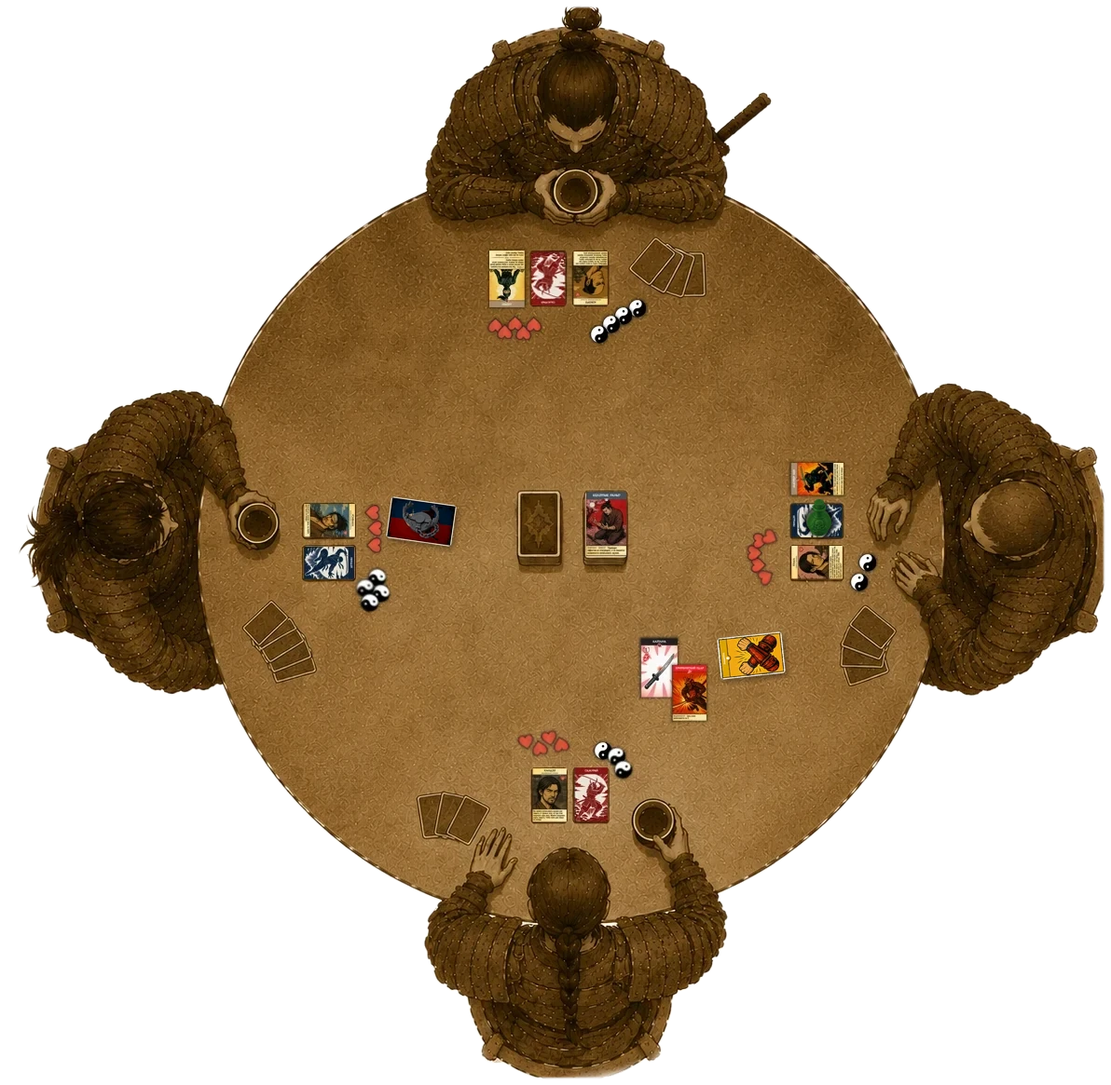
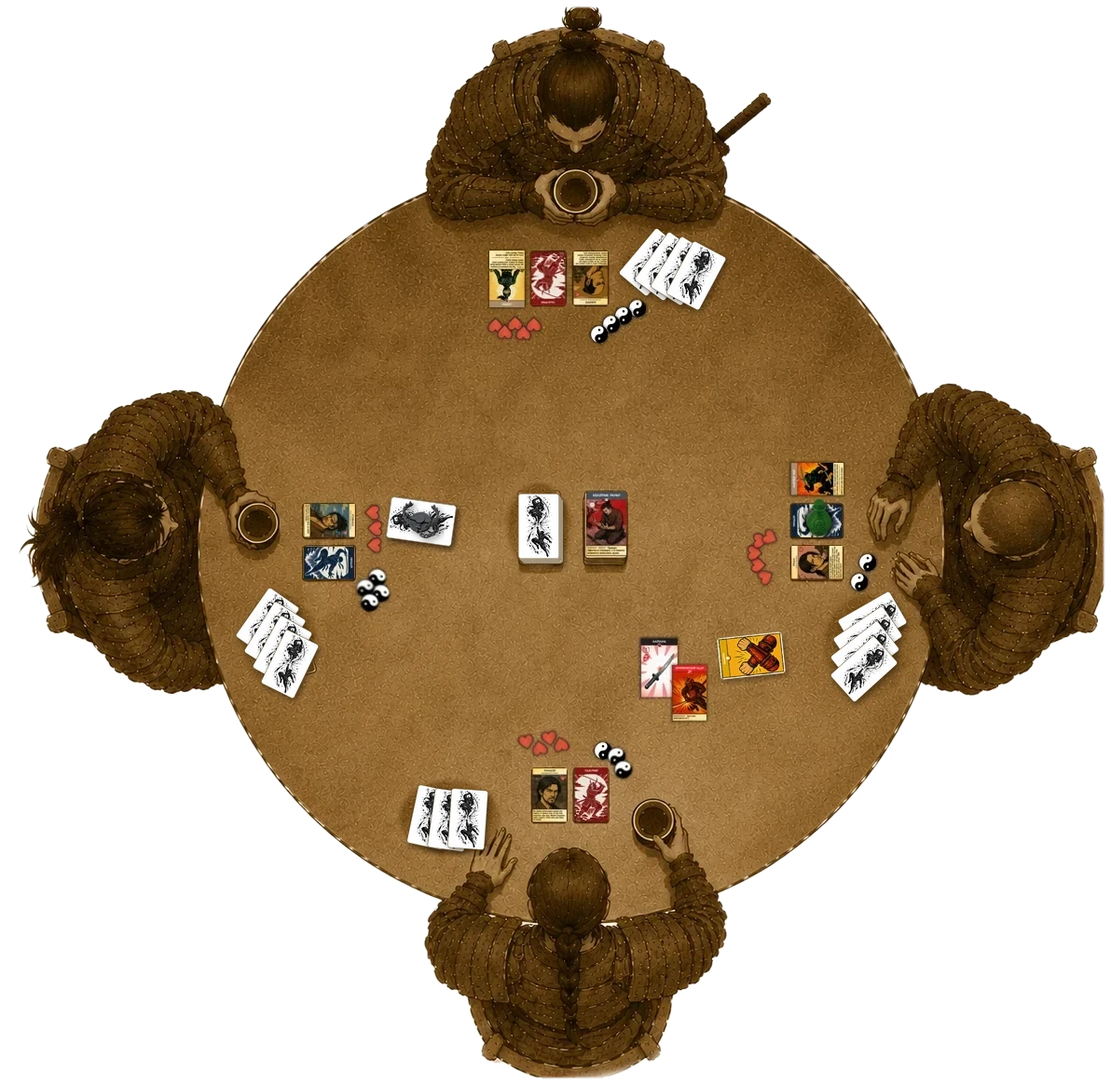
Стол: новая рубашка на колоде, веерах рук и ловушке; стрелка атаки снаружи стола
Все перевёрнутые карты на столе — белая рубашка с тушью (media/cards/back.webp): старые нарисованные веера и колода закрашены клоном текстуры, поверх — новые слои (tools/compose-table-backs.py; предыдущий монтаж бутылки, капкана и защиты — tools/compose-table-figs.py). Прежняя картинка — media/obsolete/table-v2-brown-backs.webp. Стрелка «нижний самурай атакует правого ниндзя» ушла с центра стола наружу: справа, огибая тело самурая, с плашкой «Атакует».

diff --git a/rules/rules.html b/rules/rules.html
@@ -90,7 +90,7 @@
           <h2 class="chapter-title">Стол<span class="kanji" aria-hidden="true">卓</span></h2>
 <p>Так выглядит стол в середине партии на четверых: у каждого игрока перед собой своя зона, посреди стола — общие стопки. Игроки сидят через одного, поэтому напротив — союзник, а по бокам — противники.</p>
 <figure class="table-figure">
-        <div class="table-pic"><img src="media/table.webp" alt="" width="1192" height="1165"><svg class="table-overlay" viewBox="0 0 1192 1165" xmlns="http://www.w3.org/2000/svg" aria-hidden="true"><defs><marker id="tf-arrow" viewBox="0 0 10 10" refX="9" refY="5" markerWidth="5" markerHeight="5" orient="auto-start-reverse"><path d="M0,0 L10,5 L0,10 z"/></marker><marker id="tf-arrow-big" viewBox="0 0 10 10" refX="8" refY="5" markerWidth="4" markerHeight="4" orient="auto-start-reverse"><path d="M0,0 L10,5 L0,10 z"/></marker></defs><path class="tf-flow" d="M 630 795 C 700 640 780 610 868 640"/><g class="tf-lines"><line x1="480" y1="300" x2="515" y2="300"/><line x1="598" y1="402" x2="593" y2="335"/><line x1="818" y1="357" x2="760" y2="315"/><line x1="359" y1="473" x2="430" y2="540"/><line x1="442" y1="468" x2="365" y2="532"/><line x1="521" y1="523" x2="560" y2="565"/><line x1="692" y1="513" x2="672" y2="530"/><line x1="815" y1="463" x2="855" y2="500"/><line x1="827" y1="545" x2="862" y2="552"/><line x1="813" y1="739" x2="812" y2="732"/><line x1="636" y1="715" x2="688" y2="712"/><line x1="476" y1="793" x2="565" y2="800"/><line x1="704" y1="812" x2="683" y2="812"/></g><g class="tf-labels"><g transform="translate(376,277)"><rect width="104" height="46" rx="8"/><text class="tf-txt" x="52.0" y="24.0">Стойка</text></g><g transform="translate(523,402)"><rect width="154" height="46" rx="8"/><text class="tf-txt" x="77.0" y="24.0">Карта роли</text></g><g transform="translate(810,357)"><rect width="79" height="46" rx="8"/><text class="tf-txt" x="39.5" y="24.0">Рука</text></g><g transform="translate(277,427)"><rect width="116" height="46" rx="8"/><text class="tf-txt" x="58.0" y="24.0">Ловушка</text></g><g transform="translate(406,422)"><rect width="129" height="46" rx="8"/><text class="tf-txt" x="64.5" y="24.0">Персонаж</text></g><g transform="translate(448,477)"><rect width="104" height="46" rx="8"/><text class="tf-txt" x="52.0" y="24.0">Колода</text></g><g transform="translate(674,467)"><rect width="92" height="46" rx="8"/><text class="tf-txt" x="46.0" y="24.0">Сброс</text></g><g transform="translate(732,417)"><rect width="116" height="46" rx="8"/><text class="tf-txt" x="58.0" y="24.0">Эффекты</text></g><g transform="translate(773,517)"><rect width="54" height="46" rx="8"/><text class="tf-txt" x="27.0" y="24.0">Яд</text></g><g transform="translate(763,739)"><rect width="104" height="46" rx="8"/><text class="tf-txt" x="52.0" y="24.0">Защита</text></g><g transform="translate(444,682)"><rect width="191" height="76" rx="8"/><text class="tf-txt" x="95.5" y="24.0">Атака: оружие</text><text class="tf-txt" x="95.5" y="54.0">+ модификатор</text></g><g transform="translate(384,767)"><rect width="92" height="46" rx="8"/><text class="tf-txt" x="46.0" y="24.0">Жизни</text></g><g transform="translate(704,789)"><rect width="191" height="46" rx="8"/><text class="tf-txt" x="95.5" y="24.0">Победные очки</text></g></g><g class="tf-tags"><g transform="translate(802,127)"><rect width="116" height="46" rx="23"/><text x="58.0" y="24.0">Самурай</text></g><g transform="translate(1028,372)"><rect width="104" height="46" rx="23"/><text x="52.0" y="24.0">Ниндзя</text></g><g transform="translate(702,1037)"><rect width="116" height="46" rx="23"/><text x="58.0" y="24.0">Самурай</text></g><g transform="translate(88,377)"><rect width="104" height="46" rx="23"/><text x="52.0" y="24.0">Ниндзя</text></g></g></svg></div>
+        <div class="table-pic"><img src="media/table.webp" alt="" width="1192" height="1165"><svg class="table-overlay" viewBox="0 0 1192 1165" xmlns="http://www.w3.org/2000/svg" aria-hidden="true"><defs><marker id="tf-arrow" viewBox="0 0 10 10" refX="9" refY="5" markerWidth="5" markerHeight="5" orient="auto-start-reverse"><path d="M0,0 L10,5 L0,10 z"/></marker><marker id="tf-arrow-big" viewBox="0 0 10 10" refX="8" refY="5" markerWidth="4" markerHeight="4" orient="auto-start-reverse"><path d="M0,0 L10,5 L0,10 z"/></marker></defs><path class="tf-flow" d="M 790 1125 C 930 1100 1020 950 1005 775"/><g class="tf-lines"><line x1="480" y1="300" x2="515" y2="300"/><line x1="598" y1="402" x2="593" y2="335"/><line x1="818" y1="357" x2="760" y2="315"/><line x1="359" y1="473" x2="430" y2="540"/><line x1="442" y1="468" x2="365" y2="532"/><line x1="521" y1="523" x2="560" y2="565"/><line x1="692" y1="513" x2="672" y2="530"/><line x1="815" y1="463" x2="855" y2="500"/><line x1="827" y1="545" x2="862" y2="552"/><line x1="813" y1="739" x2="812" y2="732"/><line x1="636" y1="715" x2="688" y2="712"/><line x1="476" y1="793" x2="565" y2="800"/><line x1="704" y1="812" x2="683" y2="812"/></g><g class="tf-labels"><g transform="translate(376,277)"><rect width="104" height="46" rx="8"/><text class="tf-txt" x="52.0" y="24.0">Стойка</text></g><g transform="translate(523,402)"><rect width="154" height="46" rx="8"/><text class="tf-txt" x="77.0" y="24.0">Карта роли</text></g><g transform="translate(810,357)"><rect width="79" height="46" rx="8"/><text class="tf-txt" x="39.5" y="24.0">Рука</text></g><g transform="translate(277,427)"><rect width="116" height="46" rx="8"/><text class="tf-txt" x="58.0" y="24.0">Ловушка</text></g><g transform="translate(406,422)"><rect width="129" height="46" rx="8"/><text class="tf-txt" x="64.5" y="24.0">Персонаж</text></g><g transform="translate(448,477)"><rect width="104" height="46" rx="8"/><text class="tf-txt" x="52.0" y="24.0">Колода</text></g><g transform="translate(674,467)"><rect width="92" height="46" rx="8"/><text class="tf-txt" x="46.0" y="24.0">Сброс</text></g><g transform="translate(732,417)"><rect width="116" height="46" rx="8"/><text class="tf-txt" x="58.0" y="24.0">Эффекты</text></g><g transform="translate(773,517)"><rect width="54" height="46" rx="8"/><text class="tf-txt" x="27.0" y="24.0">Яд</text></g><g transform="translate(763,739)"><rect width="104" height="46" rx="8"/><text class="tf-txt" x="52.0" y="24.0">Защита</text></g><g transform="translate(444,682)"><rect width="191" height="76" rx="8"/><text class="tf-txt" x="95.5" y="24.0">Атака: оружие</text><text class="tf-txt" x="95.5" y="54.0">+ модификатор</text></g><g transform="translate(384,767)"><rect width="92" height="46" rx="8"/><text class="tf-txt" x="46.0" y="24.0">Жизни</text></g><g transform="translate(704,789)"><rect width="191" height="46" rx="8"/><text class="tf-txt" x="95.5" y="24.0">Победные очки</text></g><g transform="translate(1027,937)"><rect width="116" height="46" rx="8"/><text class="tf-txt" x="58.0" y="24.0">Атакует</text></g></g><g class="tf-tags"><g transform="translate(802,127)"><rect width="116" height="46" rx="23"/><text x="58.0" y="24.0">Самурай</text></g><g transform="translate(1028,372)"><rect width="104" height="46" rx="23"/><text x="52.0" y="24.0">Ниндзя</text></g><g transform="translate(702,1037)"><rect width="116" height="46" rx="23"/><text x="58.0" y="24.0">Самурай</text></g><g transform="translate(88,377)"><rect width="104" height="46" rx="23"/><text x="52.0" y="24.0">Ниндзя</text></g></g></svg></div>
         <figcaption>Стол на четверых: самурай — ниндзя — самурай — ниндзя.</figcaption>
       </figure>
 <p class="table-note">Ловушка кладётся перед собой рубашкой вверх, сверху — фигурка капкана; яд отмечают фигуркой-бутылкой на карте роли. Аура кладётся перед собой в открытую, сверху — фигурка знамени; на этой картинке её нет.</p>

diff --git a/rules/rules-en.html b/rules/rules-en.html
@@ -90,7 +90,7 @@
           <h2 class="chapter-title">The Table<span class="kanji" aria-hidden="true">卓</span></h2>
 <p>This is what a four-player table looks like mid-game: every player has their own area in front of them, and the shared piles sit in the middle. Seats alternate, so the player opposite is your ally and the players on either side are enemies.</p>
 <figure class="table-figure">
-        <div class="table-pic"><img src="media/table.webp" alt="" width="1192" height="1165"><svg class="table-overlay" viewBox="0 0 1192 1165" xmlns="http://www.w3.org/2000/svg" aria-hidden="true"><defs><marker id="tf-arrow" viewBox="0 0 10 10" refX="9" refY="5" markerWidth="5" markerHeight="5" orient="auto-start-reverse"><path d="M0,0 L10,5 L0,10 z"/></marker><marker id="tf-arrow-big" viewBox="0 0 10 10" refX="8" refY="5" markerWidth="4" markerHeight="4" orient="auto-start-reverse"><path d="M0,0 L10,5 L0,10 z"/></marker></defs><path class="tf-flow" d="M 630 795 C 700 640 780 610 868 640"/><g class="tf-lines"><line x1="480" y1="300" x2="515" y2="300"/><line x1="598" y1="402" x2="593" y2="335"/><line x1="818" y1="357" x2="760" y2="315"/><line x1="359" y1="473" x2="430" y2="540"/><line x1="442" y1="468" x2="365" y2="532"/><line x1="521" y1="523" x2="560" y2="565"/><line x1="692" y1="513" x2="672" y2="530"/><line x1="815" y1="463" x2="855" y2="500"/><line x1="852" y1="550" x2="862" y2="552"/><line x1="813" y1="739" x2="812" y2="732"/><line x1="642" y1="715" x2="688" y2="712"/><line x1="470" y1="793" x2="565" y2="800"/><line x1="698" y1="812" x2="683" y2="812"/></g><g class="tf-labels"><g transform="translate(376,277)"><rect width="104" height="46" rx="8"/><text class="tf-txt" x="52.0" y="24.0">Stance</text></g><g transform="translate(530,402)"><rect width="141" height="46" rx="8"/><text class="tf-txt" x="70.5" y="24.0">Role card</text></g><g transform="translate(810,357)"><rect width="79" height="46" rx="8"/><text class="tf-txt" x="39.5" y="24.0">Hand</text></g><g transform="translate(296,427)"><rect width="79" height="46" rx="8"/><text class="tf-txt" x="39.5" y="24.0">Trap</text></g><g transform="translate(400,422)"><rect width="141" height="46" rx="8"/><text class="tf-txt" x="70.5" y="24.0">Character</text></g><g transform="translate(460,477)"><rect width="79" height="46" rx="8"/><text class="tf-txt" x="39.5" y="24.0">Deck</text></g><g transform="translate(662,467)"><rect width="116" height="46" rx="8"/><text class="tf-txt" x="58.0" y="24.0">Discard</text></g><g transform="translate(732,417)"><rect width="116" height="46" rx="8"/><text class="tf-txt" x="58.0" y="24.0">Effects</text></g><g transform="translate(748,517)"><rect width="104" height="46" rx="8"/><text class="tf-txt" x="52.0" y="24.0">Poison</text></g><g transform="translate(757,739)"><rect width="116" height="46" rx="8"/><text class="tf-txt" x="58.0" y="24.0">Defense</text></g><g transform="translate(438,682)"><rect width="203" height="76" rx="8"/><text class="tf-txt" x="101.5" y="24.0">Attack: weapon</text><text class="tf-txt" x="101.5" y="54.0">+ modifier</text></g><g transform="translate(390,767)"><rect width="79" height="46" rx="8"/><text class="tf-txt" x="39.5" y="24.0">Life</text></g><g transform="translate(698,789)"><rect width="203" height="46" rx="8"/><text class="tf-txt" x="101.5" y="24.0">Victory points</text></g></g><g class="tf-tags"><g transform="translate(802,127)"><rect width="116" height="46" rx="23"/><text x="58.0" y="24.0">Samurai</text></g><g transform="translate(1034,372)"><rect width="92" height="46" rx="23"/><text x="46.0" y="24.0">Ninja</text></g><g transform="translate(702,1037)"><rect width="116" height="46" rx="23"/><text x="58.0" y="24.0">Samurai</text></g><g transform="translate(94,377)"><rect width="92" height="46" rx="23"/><text x="46.0" y="24.0">Ninja</text></g></g></svg></div>
+        <div class="table-pic"><img src="media/table.webp" alt="" width="1192" height="1165"><svg class="table-overlay" viewBox="0 0 1192 1165" xmlns="http://www.w3.org/2000/svg" aria-hidden="true"><defs><marker id="tf-arrow" viewBox="0 0 10 10" refX="9" refY="5" markerWidth="5" markerHeight="5" orient="auto-start-reverse"><path d="M0,0 L10,5 L0,10 z"/></marker><marker id="tf-arrow-big" viewBox="0 0 10 10" refX="8" refY="5" markerWidth="4" markerHeight="4" orient="auto-start-reverse"><path d="M0,0 L10,5 L0,10 z"/></marker></defs><path class="tf-flow" d="M 790 1125 C 930 1100 1020 950 1005 775"/><g class="tf-lines"><line x1="480" y1="300" x2="515" y2="300"/><line x1="598" y1="402" x2="593" y2="335"/><line x1="818" y1="357" x2="760" y2="315"/><line x1="359" y1="473" x2="430" y2="540"/><line x1="442" y1="468" x2="365" y2="532"/><line x1="521" y1="523" x2="560" y2="565"/><line x1="692" y1="513" x2="672" y2="530"/><line x1="815" y1="463" x2="855" y2="500"/><line x1="852" y1="550" x2="862" y2="552"/><line x1="813" y1="739" x2="812" y2="732"/><line x1="642" y1="715" x2="688" y2="712"/><line x1="470" y1="793" x2="565" y2="800"/><line x1="698" y1="812" x2="683" y2="812"/></g><g class="tf-labels"><g transform="translate(376,277)"><rect width="104" height="46" rx="8"/><text class="tf-txt" x="52.0" y="24.0">Stance</text></g><g transform="translate(530,402)"><rect width="141" height="46" rx="8"/><text class="tf-txt" x="70.5" y="24.0">Role card</text></g><g transform="translate(810,357)"><rect width="79" height="46" rx="8"/><text class="tf-txt" x="39.5" y="24.0">Hand</text></g><g transform="translate(296,427)"><rect width="79" height="46" rx="8"/><text class="tf-txt" x="39.5" y="24.0">Trap</text></g><g transform="translate(400,422)"><rect width="141" height="46" rx="8"/><text class="tf-txt" x="70.5" y="24.0">Character</text></g><g transform="translate(460,477)"><rect width="79" height="46" rx="8"/><text class="tf-txt" x="39.5" y="24.0">Deck</text></g><g transform="translate(662,467)"><rect width="116" height="46" rx="8"/><text class="tf-txt" x="58.0" y="24.0">Discard</text></g><g transform="translate(732,417)"><rect width="116" height="46" rx="8"/><text class="tf-txt" x="58.0" y="24.0">Effects</text></g><g transform="translate(748,517)"><rect width="104" height="46" rx="8"/><text class="tf-txt" x="52.0" y="24.0">Poison</text></g><g transform="translate(757,739)"><rect width="116" height="46" rx="8"/><text class="tf-txt" x="58.0" y="24.0">Defense</text></g><g transform="translate(438,682)"><rect width="203" height="76" rx="8"/><text class="tf-txt" x="101.5" y="24.0">Attack: weapon</text><text class="tf-txt" x="101.5" y="54.0">+ modifier</text></g><g transform="translate(390,767)"><rect width="79" height="46" rx="8"/><text class="tf-txt" x="39.5" y="24.0">Life</text></g><g transform="translate(698,789)"><rect width="203" height="46" rx="8"/><text class="tf-txt" x="101.5" y="24.0">Victory points</text></g><g transform="translate(1027,937)"><rect width="116" height="46" rx="8"/><text class="tf-txt" x="58.0" y="24.0">Attacks</text></g></g><g class="tf-tags"><g transform="translate(802,127)"><rect width="116" height="46" rx="23"/><text x="58.0" y="24.0">Samurai</text></g><g transform="translate(1034,372)"><rect width="92" height="46" rx="23"/><text x="46.0" y="24.0">Ninja</text></g><g transform="translate(702,1037)"><rect width="116" height="46" rx="23"/><text x="58.0" y="24.0">Samurai</text></g><g transform="translate(94,377)"><rect width="92" height="46" rx="23"/><text x="46.0" y="24.0">Ninja</text></g></g></svg></div>
         <figcaption>A table for four: samurai — ninja — samurai — ninja.</figcaption>
       </figure>
 <p class="table-note">A trap is placed face down in front of you with the trap figure on top; poison is marked by a bottle figure on the role card. An aura goes face up in front of you with the banner figure on top; it is not shown in this picture.</p>

diff --git a/tools/compose-table-backs.py b/tools/compose-table-backs.py
@@ -1,0 +1,94 @@
+# -*- coding: utf-8 -*-
+"""Стол: все рубашки (колода, веера рук, карта ловушки) — новая белая рубашка с тушью
+(rules/media/cards/back.webp = media/backs/default.png в 5:8). Старые нарисованные
+веера и колода закрашиваются клоном текстуры стола, поверх кладутся новые слои.
+Слои строятся в 4× и поворачиваются до уменьшения. Аргументы: <src.webp> <out.webp>"""
+import sys, os, math
+from PIL import Image, ImageDraw, ImageFilter, ImageOps
+sys.stdout.reconfigure(encoding='utf-8')
+os.chdir(r'C:\ninja_samurai\cardboard')
+src, out = sys.argv[1:3]
+im = Image.open(src).convert('RGBA')
+S = 4
+CW, CH = 40, 64            # карта в руке / колоде, px картинки
+BACK = 'rules/media/cards/back.webp'
+
+def down(l): return l.resize((max(1, round(l.width / S)), max(1, round(l.height / S))), Image.LANCZOS)
+def rot(l, deg): return l.rotate(deg, Image.BICUBIC, expand=True)
+def shadow(layer, blur=3, dx=2, dy=3, op=0.45):
+    a = layer.split()[3]
+    sh = Image.new('RGBA', (layer.width + 2*blur + abs(dx), layer.height + 2*blur + abs(dy)), (0, 0, 0, 0))
+    sh.paste(Image.new('RGBA', layer.size, (20, 10, 0, int(255*op))), (blur + max(dx, 0), blur + max(dy, 0)), a)
+    return sh.filter(ImageFilter.GaussianBlur(blur)), (blur, blur)
+def paste_center(base, layer, cx, cy, with_shadow=True):
+    if with_shadow:
+        sh, off = shadow(layer)
+        base.alpha_composite(sh, (int(round(cx - layer.width/2 - off[0])), int(round(cy - layer.height/2 - off[1]))))
+    base.alpha_composite(layer, (int(round(cx - layer.width/2)), int(round(cy - layer.height/2))))
+
+def card_face(webp, w=CW*S, h=CH*S, b=1*S, outline=(120, 100, 70, 255)):
+    art = Image.open(webp).convert('RGBA')
+    tw = round(art.height * (w - 2*b) / (h - 2*b))
+    if art.width > tw:
+        x0 = (art.width - tw) // 2; art = art.crop((x0, 0, x0 + tw, art.height))
+    art = art.resize((w - 2*b, h - 2*b), Image.LANCZOS)
+    card = Image.new('RGBA', (w, h), (0, 0, 0, 0))
+    m = Image.new('L', (w, h), 0); ImageDraw.Draw(m).rounded_rectangle((0, 0, w-1, h-1), 3*S, fill=255)
+    card.paste((246, 240, 228, 255), (0, 0, w, h), m)
+    card.alpha_composite(art, (b, b))
+    d = ImageDraw.Draw(card); d.rounded_rectangle((0, 0, w-1, h-1), 3*S, outline=outline, width=S//2)
+    return card
+
+# --- клон текстуры стола: чистый кусок без предметов, кладём с мягкой эллиптической маской ---
+PATCH = im.crop((330, 330, 470, 470))
+def clean(cx, cy, rx, ry, ang=0):
+    """Закрасить эллипс (центр, полуоси, поворот) текстурой стола."""
+    w, h = int(rx*2 + 20), int(ry*2 + 20)
+    tex = Image.new('RGBA', (w, h))
+    for y in range(0, h, PATCH.height):
+        for x in range(0, w, PATCH.width):
+            tex.paste(PATCH, (x, y))
+    m = Image.new('L', (w*S, h*S), 0)
+    ImageDraw.Draw(m).ellipse((10*S, 10*S, (10+2*rx)*S, (10+2*ry)*S), fill=255)
+    m = m.resize((w, h), Image.LANCZOS).filter(ImageFilter.GaussianBlur(2))
+    if ang:
+        tex = tex.rotate(ang, Image.BICUBIC, expand=False); m = m.rotate(ang, Image.BICUBIC, expand=False)
+    tex.putalpha(m)
+    im.alpha_composite(tex, (int(cx - w/2), int(cy - h/2)))
+
+BACKCARD = card_face(BACK)
+
+def fan(cards):
+    """cards: [(cx, cy, angle)] — снизу вверх по стопке."""
+    for cx, cy, a in cards:
+        paste_center(im, down(rot(BACKCARD, a)), cx, cy)
+
+# ---------- 1. руки: четыре веера ----------
+HANDS = {
+ 'top':    dict(clean=(716, 290, 52, 38, 0),   cards=[(699, 281, -40), (715, 286, -36), (731, 291, -32), (747, 296, -28)]),
+ 'left':   dict(clean=(300, 690, 40, 52, 0),   cards=[(287, 668, -35), (295, 683, -32), (303, 698, -29), (311, 713, -26)]),
+ 'right':  dict(clean=(930, 695, 46, 56, 0),   cards=[(936, 668, -60), (931, 685, -56), (928, 702, -52), (927, 719, -48)]),
+ 'bottom': dict(clean=(482, 878, 54, 40, 0),   cards=[(462, 878, -12), (482, 880, -8), (502, 880, -4)]),
+}
+for k, h in HANDS.items():
+    clean(*h['clean']); fan(h['cards'])
+
+# ---------- 2. колода в центре: стопка ----------
+clean(578, 565, 34, 46)
+DW, DH = 44, 70
+deckcard = card_face(BACK, DW*S, DH*S)
+for i in range(6, 0, -1):     # кромки стопки: смещённые слои, потемнее
+    edge = Image.new('RGBA', deckcard.size, (0, 0, 0, 0))
+    ImageDraw.Draw(edge).rounded_rectangle((0, 0, deckcard.width-1, deckcard.height-1), 3*S, fill=(200, 190, 172, 255), outline=(120, 100, 70, 255), width=S//2)
+    paste_center(im, down(edge), 578 + i*0.6, 565 + i*0.8, with_shadow=(i == 6))
+paste_center(im, down(deckcard), 578, 565, with_shadow=False)
+
+# ---------- 3. ловушка левого игрока: та же рубашка боком + фигурка капкана ----------
+trapback = down(rot(card_face(BACK, 44*S, 70*S), 90 - 8))
+paste_center(im, trapback, 452, 560)
+trap = Image.open('rules/media/fig/trap.webp').convert('RGBA')
+trap = ImageOps.contain(trap, (40*S, 40*S), Image.LANCZOS)
+paste_center(im, down(trap), 452, 558)
+
+im.save(out, 'WEBP', quality=90, method=6)
+print('written', out, im.size)

diff --git a/tools/compose-table-figs.py b/tools/compose-table-figs.py
@@ -1,0 +1,80 @@
+# -*- coding: utf-8 -*-
+"""Дорисовка стола: бутылка яда вместо жетона у правого игрока, карта защиты
+у него же напротив атаки, ловушка (рубашка + фигурка) у левого игрока.
+Слои строятся в 4× и поворачиваются до уменьшения — края чистые.
+Аргументы: <src.webp> <poison.png> <trap.png> <out.webp>"""
+import sys, os
+from PIL import Image, ImageDraw, ImageFilter, ImageOps
+sys.stdout.reconfigure(encoding='utf-8')
+os.chdir(r'C:\ninja_samurai\cardboard')
+src, poison_png, trap_png, out = sys.argv[1:5]
+
+im = Image.open(src).convert('RGBA')
+S = 4                       # внутренний масштаб построения слоёв
+CW, CH = 44, 70             # карта на столе, px картинки
+
+def alpha_bbox_crop(img):
+    a = img.split()[3].point(lambda v: 255 if v > 24 else 0)
+    return img.crop(a.getbbox())
+
+def shadow(layer, blur=3, dx=2, dy=3, op=0.45):
+    a = layer.split()[3]
+    sh = Image.new('RGBA', (layer.width + 2*blur + abs(dx), layer.height + 2*blur + abs(dy)), (0, 0, 0, 0))
+    black = Image.new('RGBA', layer.size, (20, 10, 0, int(255*op)))
+    sh.paste(black, (blur + max(dx, 0), blur + max(dy, 0)), a)
+    return sh.filter(ImageFilter.GaussianBlur(blur)), (blur, blur)
+
+def paste_center(base, layer, cx, cy, with_shadow=True):
+    if with_shadow:
+        sh, off = shadow(layer)
+        base.alpha_composite(sh, (int(cx - layer.width/2 - off[0]), int(cy - layer.height/2 - off[1])))
+    base.alpha_composite(layer, (int(cx - layer.width/2), int(cy - layer.height/2)))
+
+def down(layer):
+    return layer.resize((max(1, round(layer.width / S)), max(1, round(layer.height / S))), Image.LANCZOS)
+
+def rot(layer, deg):
+    return layer.rotate(deg, Image.BICUBIC, expand=True)
+
+def card_face(webp, w=CW*S, h=CH*S, b=1*S):
+    """Карта с тонкой кремовой каймой и скруглением, как остальные на столе (4×).
+    Растр шире 5:8 (рубашка 1052×1494) обрезается по центру до пропорции карты."""
+    art = Image.open(webp).convert('RGBA')
+    tw = round(art.height * (w - 2*b) / (h - 2*b))
+    if art.width > tw:
+        x0 = (art.width - tw) // 2; art = art.crop((x0, 0, x0 + tw, art.height))
+    art = art.resize((w - 2*b, h - 2*b), Image.LANCZOS)
+    card = Image.new('RGBA', (w, h), (0, 0, 0, 0))
+    m = Image.new('L', (w, h), 0); ImageDraw.Draw(m).rounded_rectangle((0, 0, w-1, h-1), 3*S, fill=255)
+    card.paste((240, 230, 210, 255), (0, 0, w, h), m)
+    card.alpha_composite(art, (b, b))
+    return card
+
+def card_back(w=CW*S, h=CH*S):
+    """Рубашка в стиле рисунка: коричневая со светлым контуром (4×)."""
+    big = Image.new('RGBA', (w, h), (0, 0, 0, 0))
+    d = ImageDraw.Draw(big)
+    d.rounded_rectangle((0, 0, w-1, h-1), 3*S, fill=(100, 66, 18, 255), outline=(214, 180, 130, 255), width=S)
+    d.rounded_rectangle((3*S, 3*S, w-1-3*S, h-1-3*S), 2*S, outline=(140, 100, 45, 255), width=S//2)
+    return big
+
+# --- 1. Карта защиты правого игрока: перед ним, рядом с выложенной атакой,
+#        повёрнута как его карты (лежит боком к нижнему игроку) ---
+defense = down(rot(card_face('rules/media/cards/48.webp'), 90 + 6))
+paste_center(im, defense, 806, 704)
+
+# --- 2. Ловушка левого игрока: настоящая рубашка (media/backs/default_real.png)
+#        боком + фигурка капкана сверху ---
+back = down(rot(card_face('media/backs/default_real.png'), 90 - 8))
+paste_center(im, back, 452, 560)          # рядом с картами левого ниндзя, между сердцами и колодой
+trap = alpha_bbox_crop(Image.open(trap_png).convert('RGBA'))
+trap = ImageOps.contain(trap, (40*S, 40*S), Image.LANCZOS)
+paste_center(im, down(trap), 452, 558)
+
+# --- 3. Бутылка яда вместо жетона на карте роли правого игрока ---
+poison = alpha_bbox_crop(Image.open(poison_png).convert('RGBA'))
+poison = ImageOps.contain(poison, (36*S, 40*S), Image.LANCZOS)
+paste_center(im, down(poison), 879, 556)
+
+im.save(out, 'WEBP', quality=90, method=6)
+print('written', out, im.size)

diff --git a/tools/table_fig.py b/tools/table_fig.py
@@ -41,15 +41,17 @@ LABELS = [
 ]
 # фракционные метки у фигур: (текст-ключ, центр)
 TAGS = [('samurai', (860, 150)), ('ninja', (1080, 395)), ('samurai', (760, 1060)), ('ninja', (140, 400))]
-# стрелка хода атаки: от нижнего самурая через выложенные карты к правому ниндзя
-FLOW = 'M 630 795 C 700 640 780 610 868 640'   # дугой над выложенными картами
+# стрелка хода атаки: от нижнего самурая к правому ниндзя — снаружи стола, справа,
+# повторяя контур его тела; подпись «Атакует» у середины дуги
+FLOW = 'M 790 1125 C 930 1100 1020 950 1005 775'
+FLOW_LABEL = ('attacks', (1085, 960))
 
 TXT = {
  'ru': {
   'stance': 'Стойка', 'role': 'Карта роли', 'deck': 'Колода', 'character': 'Персонаж',
   'hand': 'Рука', 'discard': 'Сброс', 'effect': 'Эффекты', 'life': 'Жизни',
   'vp': 'Победные очки', 'attack': 'Атака: оружие|+ модификатор',
-  'poison': 'Яд', 'defense': 'Защита', 'trap': 'Ловушка',
+  'poison': 'Яд', 'defense': 'Защита', 'trap': 'Ловушка', 'attacks': 'Атакует',
   'samurai': 'Самурай', 'ninja': 'Ниндзя',
   'h4': 'Стол',
   'intro': 'Так выглядит стол в середине партии на четверых: у каждого игрока перед собой своя зона, посреди стола — общие стопки. Игроки сидят через одного, поэтому напротив — союзник, а по бокам — противники.',
@@ -72,7 +74,7 @@ TXT = {
   'stance': 'Stance', 'role': 'Role card', 'deck': 'Deck', 'character': 'Character',
   'hand': 'Hand', 'discard': 'Discard', 'effect': 'Effects', 'life': 'Life',
   'vp': 'Victory points', 'attack': 'Attack: weapon|+ modifier',
-  'poison': 'Poison', 'defense': 'Defense', 'trap': 'Trap',
+  'poison': 'Poison', 'defense': 'Defense', 'trap': 'Trap', 'attacks': 'Attacks',
   'samurai': 'Samurai', 'ninja': 'Ninja',
   'h4': 'The Table',
   'intro': 'This is what a four-player table looks like mid-game: every player has their own area in front of them, and the shared piles sit in the middle. Seats alternate, so the player opposite is your ally and the players on either side are enemies.',
@@ -132,6 +134,10 @@ def svg(lang):
         for i, l in enumerate(ls):
             out.append(f'<text class="tf-txt" x="{w/2}" y="{BH/2 + 1 + i*LH}">{esc(l)}</text>')
         out.append('</g>')
+    # подпись у стрелки атаки — та же плашка, без линии
+    key, (lx, ly) = FLOW_LABEL
+    w = box_w(t[key]); h = box_h(t[key])
+    out.append(f'<g transform="translate({lx - w/2:.0f},{ly - h/2:.0f})"><rect width="{w}" height="{h}" rx="8"/><text class="tf-txt" x="{w/2}" y="{BH/2 + 1}">{esc(t[key])}</text></g>')
     out.append('</g>')
     out.append('<g class="tf-tags">')
     for key, (cx, cy) in TAGS:
